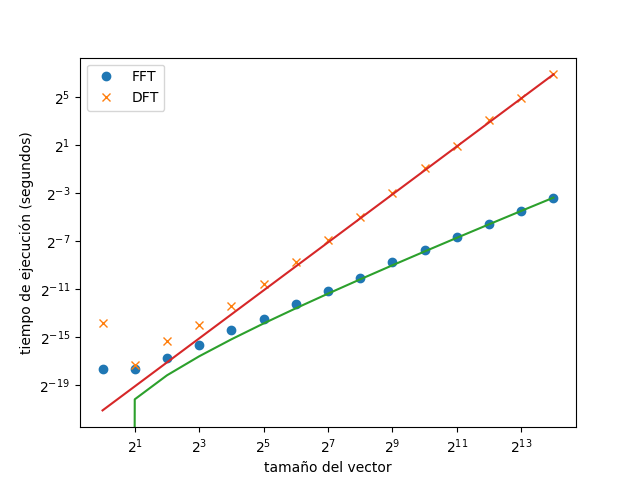
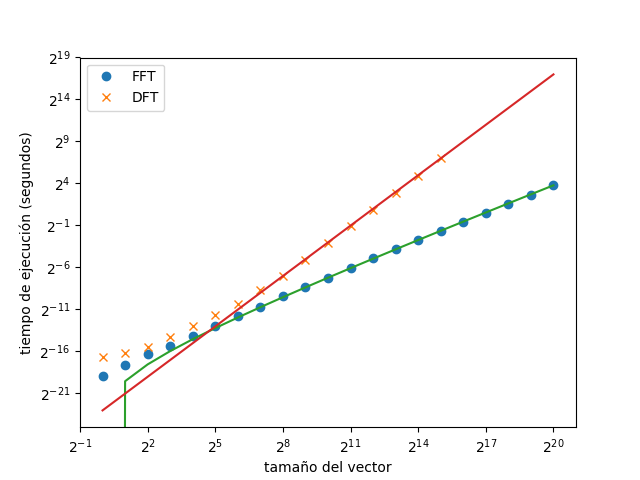
save

diff --git a/ft.hpp b/ft.hpp
@@ -2,7 +2,14 @@
 #define FT_HPP__
 
 #include <cfloat>
-#include <cmath>
+
+#ifdef _WIN32
+    #define _USE_MATH_DEFINES
+    #include <math.h>
+#else
+    #include <cmath>
+#endif
+
 #include <iostream>
 #include "vector.hpp"
 #include "complex.hpp"
@@ -40,12 +47,18 @@ class FourierTransform {
     Vector<Complex> W;
  public:
     FourierTransform() {
-        size_t limite = 1024;
-        double theta = (2*M_PI)/limite;
-        for (size_t i = 0; i < limite; i++) {
+        resizeW(1024);
+    }
+
+    void resizeW(size_t new_size){
+        W = Vector<Complex>();
+        new_size = 1 << (size_t) ceil(log2(new_size));
+        double theta = (2*M_PI)/new_size;
+        for (size_t i = 0; i < new_size; i++) {
             W.append(Complex(cos(i*theta), sin(i*theta)));
         }
     }
+
     virtual ~FourierTransform() {}
     virtual Vector<Complex> transform(const Vector<Complex>& x) = 0;
 };
@@ -64,6 +77,8 @@ class DFT: public FourierTransform {
             y.append(Complex());
         }
         Vector<Complex> original_vector = y;
+        if (N > W.getSize())
+            resizeW(N);
 
         Vector<Complex> Wn = W.slice(0, W.getSize(), W.getSize()/N);
         for (size_t yi = 0; yi < N; ++yi) {
@@ -91,6 +106,8 @@ class IDFT: public FourierTransform {
             y.append(Complex());
         }
         Vector<Complex> original_vector = y;
+        if (N > W.getSize())
+            resizeW(N);
 
         Vector<Complex> Wn = W.slice(0, W.getSize(), W.getSize()/N);
         for (Vector<Complex>::iterator yi = y.begin(); yi != y.end(); ++yi) {
@@ -110,6 +127,12 @@ class IDFT: public FourierTransform {
 class FFT: public FourierTransform {
  public:
     virtual Vector<Complex> transform(const Vector<Complex> &x) {
+        if (x.getSize() == 0)
+            return x;
+        size_t N = 1 << (size_t) ceil(log2(x.getSize()));
+        if (N > W.getSize())
+            resizeW(N);
+
         return fft(x, W);
     }
 };
@@ -120,6 +143,9 @@ class IFFT: public FourierTransform {
         if (x.getSize() == 0)
             return x;
         size_t N = 1 << (size_t) ceil(log2(x.getSize()));
+        if (N > W.getSize())
+            resizeW(N);
+
         return fft(x, W, -1)/N;
     }
 };

diff --git a/plot.py b/plot.py
@@ -5,27 +5,28 @@ import scipy
 from matplotlib import pyplot as plt
 from scipy import optimize
 
-n, t_fft = np.loadtxt('datosFFT.txt', unpack=True)
-n, t_dft = np.loadtxt('datosDFT.txt', unpack=True)
+n_fft, t_fft = np.loadtxt('datosFFT.txt', unpack=True)
+n_dft, t_dft = np.loadtxt('datosDFT.txt', unpack=True)
 
-def n_squared(x, c):
+def n_squared(x, c, d, f):
     return c * (x*x)
 
 def nlogn(x, c):
     return c*x*np.log2(x)
 
-fft_fit, cov = optimize.curve_fit(nlogn, n, t_fft)
-dft_fit, cov = optimize.curve_fit(n_squared, n, t_dft)
-t_fft_fit = nlogn(n, *fft_fit)
-t_dft_fit = n_squared(n, *dft_fit)
+fft_fit, cov = optimize.curve_fit(nlogn, n_fft, t_fft)
+dft_fit, cov = optimize.curve_fit(n_squared, n_dft, t_dft)
+t_fft_fit = nlogn(n_fft, *fft_fit)
+t_dft_fit = n_squared(n_fft, *dft_fit)
 
-plt.loglog(n, t_fft, 'o', label='FFT',
+plt.loglog(n_fft, t_fft, 'o', label='FFT',
            basex=2, basey=2)
-plt.loglog(n, t_dft, 'x', label='DFT',
+plt.loglog(n_dft, t_dft, 'x', label='DFT',
            basex=2, basey=2)
-plt.loglog(n, t_fft_fit,
+# fitting
+plt.loglog(n_fft, t_fft_fit,
            basex=2, basey=2)
-plt.loglog(n, t_dft_fit,
+plt.loglog(n_fft, t_dft_fit,
            basex=2, basey=2)
 plt.xlabel('tamaño del vector')
 plt.ylabel('tiempo de ejecución (segundos)')

diff --git a/main.cpp b/main.cpp
@@ -100,10 +100,10 @@ static void opt_output(string const &arg) {
 }
 
 static void opt_method(const string& method) {
-    method_lookup_table["FFT"] = constructorFrom<FFT>;
-    method_lookup_table["IFFT"] = constructorFrom<IFFT>;
-    method_lookup_table["DFT"] = constructorFrom<DFT>;
-    method_lookup_table["IDFT"] = constructorFrom<IDFT>;
+    method_lookup_table.add("FFT", constructorFrom<FFT>);
+    method_lookup_table.add("IFFT", constructorFrom<IFFT>);
+    method_lookup_table.add("DFT", constructorFrom<DFT>);
+    method_lookup_table.add("IDFT", constructorFrom<IDFT>);
 
     FT = method_lookup_table[method]();
 }
@@ -163,7 +163,7 @@ int main(int argc, char * const argv[]) {
             if ((*regressions_stream >> regressions).bad()) {
                 cerr << ERROR_MSG_CORRUPTED_DATA << endl;
             }
-            if (!*regressions_stream)
+            if (v.getSize() == 0)
                 break;
 
             v = FT->transform(v);

diff --git a/dictionary.hpp b/dictionary.hpp
@@ -32,7 +32,10 @@ class Dictionary {
         delete[] hashes;
     }
 
-    T& operator[](string key) {
+    void add(string key, const T& value) {
+        for (size_t i = 0; i < key.length(); i++)
+            key[i] = toupper(key[i]);
+
         long hash = Dictionary::hash(key);
         size_t pos = static_cast<size_t>(hash) % size;
 
@@ -44,10 +47,15 @@ class Dictionary {
             if (full == size)
                 throw std::overflow_error("The dictionary run out of space");
         }
-        return table[pos];
+        hashes[pos] = hash;
+        keys[pos] = key;
+        table[pos] = value;
     }
 
-    T& operator[](string key) const {
+    T& operator[](string key) {
+        for (size_t i = 0; i < key.length(); i++)
+            key[i] = toupper(key[i]);
+
         long hash = Dictionary::hash(key);
         size_t pos = static_cast<size_t>(hash) % size;
 

diff --git a/performance.cpp b/performance.cpp
@@ -70,7 +70,7 @@ int main(int argc, char * const argv[]) {
 
     int max_size = 1000;
     float division_constant = 7;
-    for (size_t i = 1; i < 16385; i *= 2) {
+    for (size_t i = 32768; i >= 1; i /= 2) {  // 2^14 16385
         Vector<Complex> v;
         for (size_t j = 0, r = 1; j < i; j++) {
             srand((j+i+r)*(j+i+r));

diff --git a/complex.hpp b/complex.hpp
@@ -2,7 +2,12 @@
 #define COMPLEX_HPP__
 
 #include <iostream>
-#include <cmath>
+#ifdef _WIN32
+    #define _USE_MATH_DEFINES
+    #include <math.h>
+#else
+    #include <cmath>
+#endif
 
 using std::cout;
 using std::endl;
